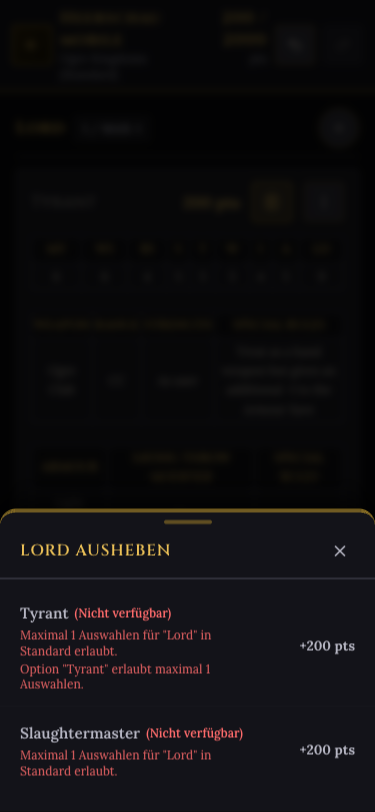
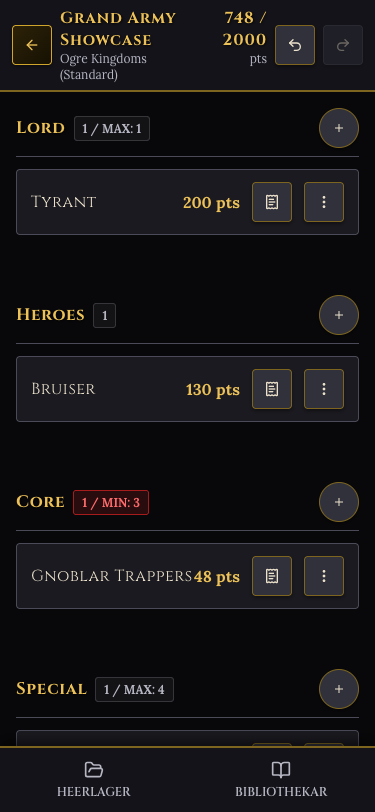
style(landing): showcase clean library view, expanded unit item selection, and full play mode list

diff --git a/docs/index.html b/docs/index.html
@@ -108,21 +108,21 @@
       <div class="showcase-grid">
         <div>
           <div class="phone-mockup">
-            <img src="./assets/screenshots/mobile_01_importer_empty.png?v=2" alt="Catalog Importer Mobile View">
+            <img src="./assets/screenshots/showcase_01_system_selection.png?v=4" alt="Catalog & System Library View">
           </div>
-          <div class="phone-caption">1. Select Army System</div>
+          <div class="phone-caption">1. Select Game System & Faction</div>
         </div>
 
         <div>
           <div class="phone-mockup">
-            <img src="./assets/screenshots/mobile_05_roster_editor.png?v=2" alt="Roster Editor Mobile View">
+            <img src="./assets/screenshots/showcase_02_unit_item_selection.png?v=4" alt="Expanded Unit & Item Selection View">
           </div>
           <div class="phone-caption">2. Customize Units & Wargear</div>
         </div>
 
         <div>
           <div class="phone-mockup">
-            <img src="./assets/screenshots/mobile_08_play_mode.png?v=2" alt="Play Mode Mobile View">
+            <img src="./assets/screenshots/showcase_03_play_mode_long.png?v=4" alt="Play Mode Army View">
           </div>
           <div class="phone-caption">3. Track Wounds in Play Mode</div>
         </div>